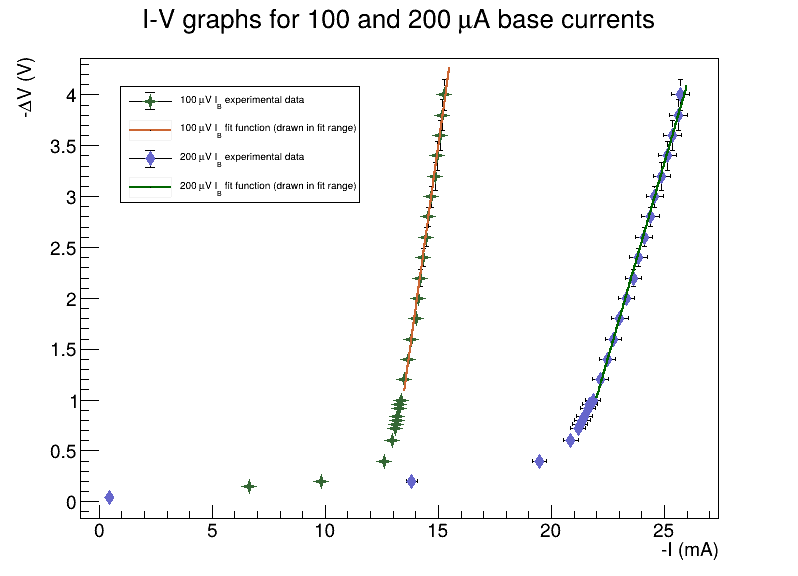
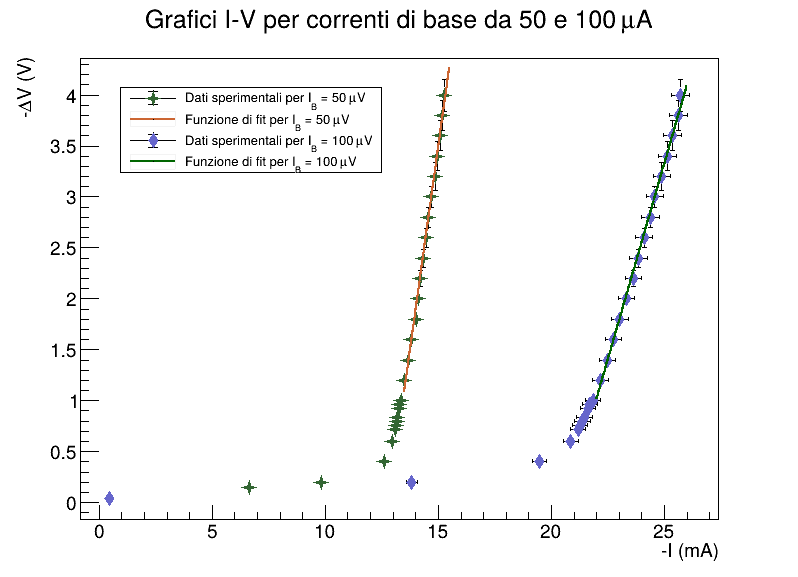
Italian for some graphs ;-;

diff --git a/BJT/analyzeData.cpp b/BJT/analyzeData.cpp
@@ -79,17 +79,17 @@ void analyzeData() {
 	IVGraph100->Draw("APE");
 	IV100Fct->Draw("SAME");
 
-	TMultiGraph* IVGraphs = new TMultiGraph("IVGraphs", "I-V graphs for 100 and 200 #muA base currents");
+	TMultiGraph* IVGraphs = new TMultiGraph("IVGraphs", "Grafici I-V per correnti di base da 50 e 100 #muA");
 	IVGraphs->Add(IVGraph50);
 	IVGraphs->Add(IVGraph100);
 	IVGraphs->GetXaxis()->SetTitle("-I (mA)");
 	IVGraphs->GetYaxis()->SetTitle("-#DeltaV (V)");
 	TCanvas* IVCompCnvs = new TCanvas("IVCompCnvs", "IV comparison canvas.", 800, 600);
-	TLegend* IVCompLgnd = new TLegend(0.15, 0.65, 0.45, 0.85);
-	IVCompLgnd->AddEntry(IVGraph50, "100 #muV I_{B} experimental data", "lep");
-	IVCompLgnd->AddEntry(IV50Fct, "100 #muV I_{B} fit function (drawn in fit range)");
-	IVCompLgnd->AddEntry(IVGraph100, "200 #muV I_{B} experimental data", "lep");
-	IVCompLgnd->AddEntry(IV100Fct, "200 #muV I_{B} fit function (drawn in fit range)");
+	TLegend* IVCompLgnd = new TLegend(0.15, 0.675, 0.5, 0.85);
+	IVCompLgnd->AddEntry(IVGraph50, "Dati sperimentali per I_{B} = 50 #muV", "lep");
+	IVCompLgnd->AddEntry(IV50Fct, "Funzione di fit per I_{B} = 50 #muV");
+	IVCompLgnd->AddEntry(IVGraph100, "Dati sperimentali per I_{B} = 100 #muV", "lep");
+	IVCompLgnd->AddEntry(IV100Fct, "Funzione di fit per I_{B} = 100 #muV");
 	IVCompCnvs->cd();
 	IVGraphs->SetDrawOption("APE");
 	IVGraphs->Draw("APE");
